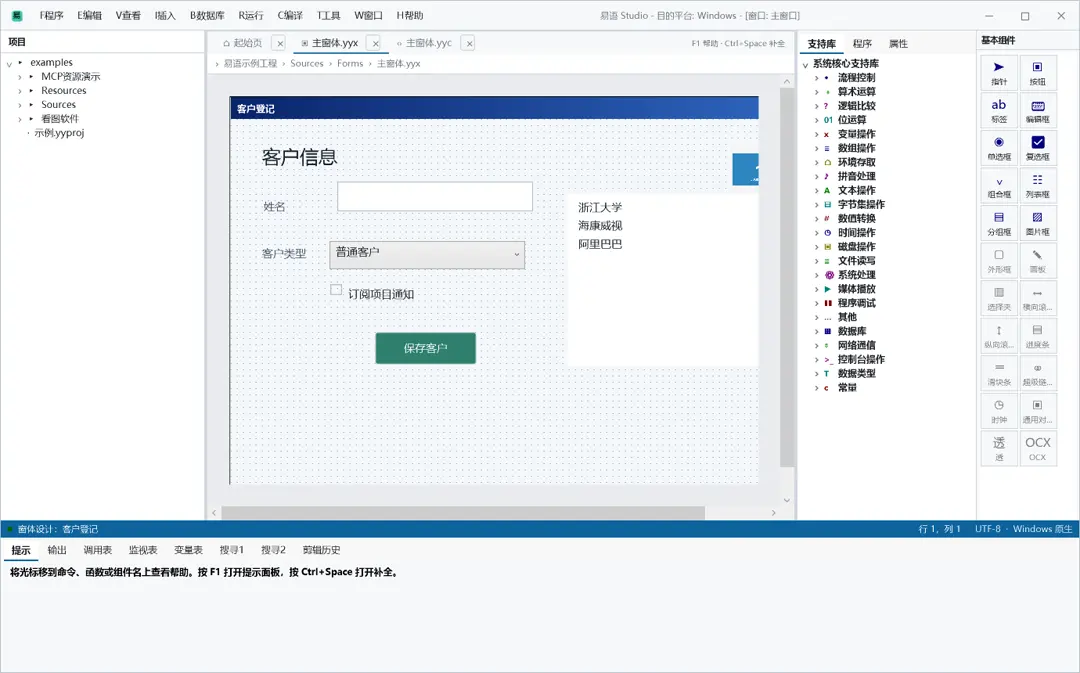
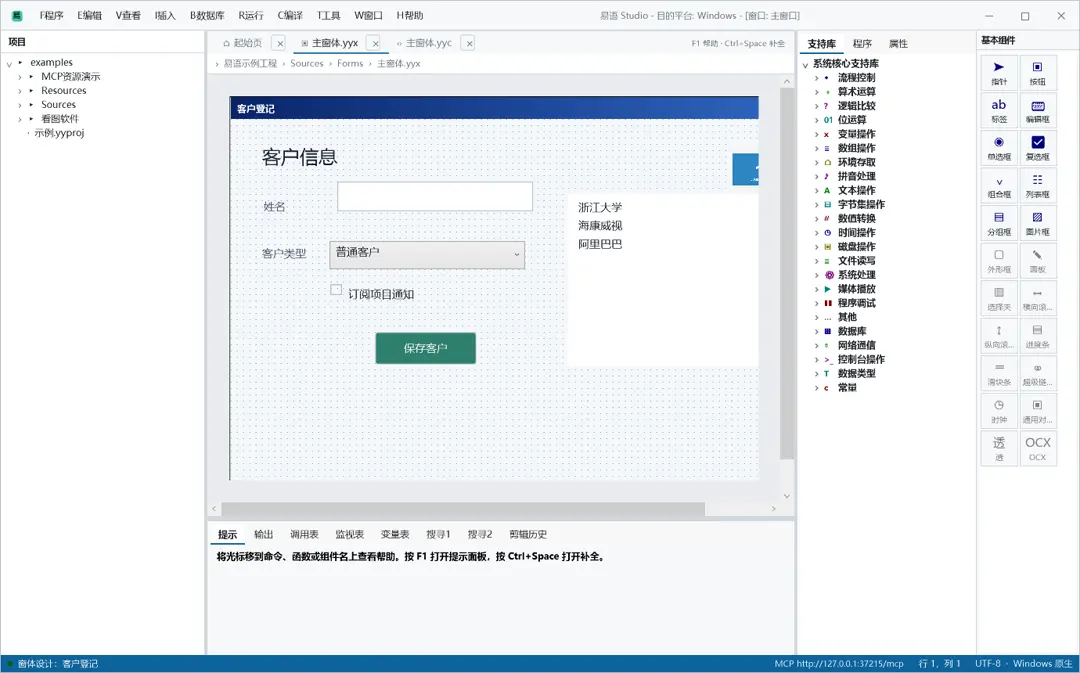
feat: add IDE tool window layout and MCP endpoint status

Changed region(s): [[0.0, 0.7489, 1.0, 0.8737], [0.0, 0.9673, 1.0, 1.0]]

diff --git a/src/Yy.Studio/MainWindow.xaml b/src/Yy.Studio/MainWindow.xaml
@@ -135,7 +135,7 @@
             BorderBrush="#B8C0C8"
             BorderThickness="1"
             SnapsToDevicePixels="True">
-    <DockPanel LastChildFill="True">
+    <DockPanel x:Name="MainLayout" LastChildFill="True">
         <!-- ================= 自定义顶栏：窗口标题、菜单和窗口按钮共用一条操作栏 ================= -->
         <Border x:Name="WindowTitleBar"
                 DockPanel.Dock="Top"
@@ -395,7 +395,8 @@
         </Border>
 
         <!-- ================= 提示、输入出组合夹(全宽,夹标签在顶) ================= -->
-        <Border DockPanel.Dock="Bottom"
+        <Border x:Name="BottomToolWindowPanel"
+                DockPanel.Dock="Bottom"
                 Height="172"
                 MinHeight="96"
                 Background="{StaticResource PanelBrush}">
@@ -585,6 +586,7 @@
                     <ColumnDefinition Width="*" />
                     <ColumnDefinition Width="Auto" />
                     <ColumnDefinition Width="Auto" />
+                    <ColumnDefinition Width="Auto" />
                 </Grid.ColumnDefinitions>
                 <StackPanel Orientation="Horizontal" VerticalAlignment="Center">
                     <Ellipse x:Name="StatusDot" Width="7" Height="7" Fill="#4ADE80" />
@@ -592,17 +594,48 @@
                                Margin="7,0,0,0" FontSize="11"
                                Foreground="White" />
                 </StackPanel>
-                <TextBlock x:Name="CaretText" Grid.Column="1" Text="行 1，列 1"
+                <Button x:Name="McpEndpointButton"
+                        Grid.Column="1"
+                        Content="MCP 未启用"
+                        Tag=""
+                        Margin="0,0,12,0"
+                        Padding="7,1"
+                        Background="Transparent"
+                        BorderThickness="0"
+                        Foreground="#DDEBFA"
+                        FontSize="10.5"
+                        Cursor="Hand"
+                        ToolTip="点击复制 MCP HTTP 地址"
+                        Click="OnCopyMcpEndpointClick">
+                    <Button.Template>
+                        <ControlTemplate TargetType="Button">
+                            <Border x:Name="McpChrome"
+                                    Background="{TemplateBinding Background}"
+                                    Padding="{TemplateBinding Padding}"
+                                    CornerRadius="2">
+                                <ContentPresenter VerticalAlignment="Center" />
+                            </Border>
+                            <ControlTemplate.Triggers>
+                                <Trigger Property="IsMouseOver" Value="True">
+                                    <Setter TargetName="McpChrome"
+                                            Property="Background"
+                                            Value="#227AA8" />
+                                </Trigger>
+                            </ControlTemplate.Triggers>
+                        </ControlTemplate>
+                    </Button.Template>
+                </Button>
+                <TextBlock x:Name="CaretText" Grid.Column="2" Text="行 1，列 1"
                            FontSize="11" Foreground="White"
                            Margin="0,0,18,0" VerticalAlignment="Center" />
-                <TextBlock Grid.Column="2" Text="UTF-8  ·  Windows 原生"
+                <TextBlock Grid.Column="3" Text="UTF-8  ·  Windows 原生"
                            FontSize="11" Foreground="#DDEBFA"
                            VerticalAlignment="Center" />
             </Grid>
         </Border>
 
         <!-- ================= 主体:左工作与状态组合夹 | 设计中心 | 右窗口组件箱 ================= -->
-        <Grid>
+        <Grid Background="{StaticResource WorkspaceBrush}" ClipToBounds="True">
             <Grid.ColumnDefinitions>
                 <ColumnDefinition x:Name="ExplorerColumn" Width="260" MinWidth="180" />
                 <ColumnDefinition Width="4" />
@@ -610,9 +643,15 @@
                 <ColumnDefinition Width="4" />
                 <ColumnDefinition x:Name="InspectorColumn" Width="360" MinWidth="220" />
             </Grid.ColumnDefinitions>
+            <Grid.RowDefinitions>
+                <RowDefinition Height="*" />
+                <RowDefinition Height="5" />
+                <RowDefinition x:Name="BottomToolWindowRow" Height="172" MinHeight="96" />
+            </Grid.RowDefinitions>
 
             <!-- 左:项目目录 -->
             <Border Grid.Column="0" x:Name="ProjectExplorerPanel"
+                    Grid.RowSpan="3"
                     Background="{StaticResource PanelBrush}">
                 <DockPanel>
                     <Border DockPanel.Dock="Top"
@@ -632,6 +671,7 @@
 
             <!-- 右:支持库、程序数据、属性 -->
             <Border Grid.Column="4" x:Name="RightToolsPanel"
+                    Grid.RowSpan="3"
                     Margin="0,0,132,0"
                     Background="{StaticResource PanelBrush}">
                 <TabControl x:Name="WorkTabs" TabStripPlacement="Top">
@@ -756,6 +796,7 @@
 
             <GridSplitter x:Name="ExplorerSplitter"
                           Grid.Column="1"
+                          Grid.RowSpan="3"
                           Width="4"
                           HorizontalAlignment="Stretch"
                           Background="{StaticResource BorderBrush}"
@@ -764,7 +805,10 @@
                           ShowsPreview="True" />
 
             <!-- 中:现代 IDE 文档区(顶部标签 + 路径导航 + 编辑器) -->
-            <Grid x:Name="DocumentArea" Grid.Column="2" Background="{StaticResource WindowBrush}">
+            <Grid x:Name="DocumentArea"
+                  Grid.Column="2"
+                  Grid.Row="0"
+                  Background="{StaticResource WindowBrush}">
                 <Grid.RowDefinitions>
                     <RowDefinition Height="30" />
                     <RowDefinition Height="Auto" />
@@ -1119,8 +1163,28 @@
                 </Grid>
             </Grid>
 
+            <GridSplitter x:Name="BottomToolWindowSplitter"
+                          Grid.Row="1"
+                          Grid.Column="2"
+                          Height="5"
+                          HorizontalAlignment="Stretch"
+                          VerticalAlignment="Stretch"
+                          Background="{StaticResource BorderBrush}"
+                          ResizeBehavior="PreviousAndNext"
+                          ResizeDirection="Rows"
+                          ShowsPreview="True" />
+
+            <Border Grid.Row="2"
+                    Grid.Column="2"
+                    Background="{StaticResource PanelBrush}"
+                    BorderBrush="{StaticResource BorderBrush}"
+                    BorderThickness="0,1,0,0">
+                <ContentControl x:Name="BottomToolWindowHost" />
+            </Border>
+
             <GridSplitter x:Name="InspectorSplitter"
                           Grid.Column="3"
+                          Grid.RowSpan="3"
                           Width="4"
                           HorizontalAlignment="Stretch"
                           Background="{StaticResource BorderBrush}"
@@ -1130,6 +1194,7 @@
 
             <!-- 右:窗口组件箱 -->
             <Border Grid.Column="4" x:Name="InspectorPanel"
+                    Grid.RowSpan="3"
                     Width="132"
                     HorizontalAlignment="Right"
                     Background="{StaticResource PanelBrush}"

diff --git a/src/Yy.Studio/Mcp/StudioMcpHost.cs b/src/Yy.Studio/Mcp/StudioMcpHost.cs
@@ -1,4 +1,5 @@
 using System.IO;
+using System.Runtime.InteropServices;
 using System.Text.Json.Nodes;
 using System.Windows;
 using System.Windows.Media;
@@ -33,6 +34,7 @@ public partial class MainWindow
 
         if (!Configuration.Mcp.Enabled)
         {
+            SetMcpEndpointStatus(null);
             AppendOutput("MCP 服务已在 Studio 配置中停用。");
             return;
         }
@@ -45,6 +47,7 @@ public partial class MainWindow
             Configuration.Mcp.PortAttempts);
         if (_mcpServer.Port == 0)
         {
+            SetMcpEndpointStatus(null);
             AppendOutput($"MCP 无法在端口 {port} 启动，请修改 Studio 配置文件。");
             _mcpServer = null;
             return;
@@ -57,7 +60,45 @@ public partial class MainWindow
             System.Threading.Tasks.Task.Run(server.RunStdio);
         }
 
+        SetMcpEndpointStatus(_mcpServer.Port);
         StudioTrace.Write($"MCP server started on port {_mcpServer.Port}");
+    }
+
+    private void SetMcpEndpointStatus(int? port)
+    {
+        if (port is null)
+        {
+            McpEndpointButton.Content = "MCP 未启用";
+            McpEndpointButton.Tag = string.Empty;
+            McpEndpointButton.ToolTip = "MCP 服务未启用";
+            return;
+        }
+
+        var endpoint = $"http://127.0.0.1:{port}/mcp";
+        McpEndpointButton.Content = $"MCP {endpoint}";
+        McpEndpointButton.Tag = endpoint;
+        McpEndpointButton.ToolTip = $"点击复制：{endpoint}";
+    }
+
+    private void OnCopyMcpEndpointClick(object sender, RoutedEventArgs e)
+    {
+        if (McpEndpointButton.Tag is not string endpoint ||
+            string.IsNullOrWhiteSpace(endpoint))
+        {
+            SetStatus("MCP 服务未启用。", WarningBrush);
+            return;
+        }
+
+        try
+        {
+            Clipboard.SetText(endpoint);
+            SetStatus($"已复制 MCP 地址：{endpoint}", ReadyBrush);
+        }
+        catch (Exception exception) when (
+            exception is ExternalException or ArgumentException)
+        {
+            SetStatus($"无法复制 MCP 地址：{exception.Message}", ErrorBrush);
+        }
     }
 
     private static int? ReadMcpPortOverride(string[] args)

diff --git a/src/Yy.Studio/MainWindow.IdeLayout.cs b/src/Yy.Studio/MainWindow.IdeLayout.cs
@@ -1,0 +1,26 @@
+using System.Windows;
+using System.Windows.Controls;
+
+namespace Yy.Studio;
+
+/// <summary>把底部输出工具窗放入中央工作区，使左右工具窗贯穿整个 IDE 高度。</summary>
+public partial class MainWindow
+{
+    private void ConfigureIdeWorkspaceLayout()
+    {
+        if (ReferenceEquals(BottomToolWindowHost.Content, BottomToolWindowPanel))
+        {
+            return;
+        }
+
+        if (BottomToolWindowPanel.Parent is DockPanel host)
+        {
+            host.Children.Remove(BottomToolWindowPanel);
+        }
+
+        BottomToolWindowPanel.ClearValue(FrameworkElement.HeightProperty);
+        BottomToolWindowPanel.ClearValue(DockPanel.DockProperty);
+        BottomToolWindowPanel.VerticalAlignment = VerticalAlignment.Stretch;
+        BottomToolWindowHost.Content = BottomToolWindowPanel;
+    }
+}

diff --git a/src/Yy.Studio/MainWindow.xaml.cs b/src/Yy.Studio/MainWindow.xaml.cs
@@ -164,6 +164,7 @@ public partial class MainWindow : Window
         Configuration = configuration;
         StudioTrace.Write("MainWindow ctor begin");
         InitializeComponent();
+        ConfigureIdeWorkspaceLayout();
         StudioTrace.Write("InitializeComponent complete");
 
         _settings = StudioSettings.Load();

diff --git a/docs/roadmap.md b/docs/roadmap.md
@@ -25,7 +25,7 @@
 | BASE-10 | Windows 单文件发布 | 已实现 | 自包含 `YyStudio.exe` 与独立命令行 `yy.exe` |
 | BASE-11 | 真实项目结构 | 已实现 | `.yyproj` 管理入口、源码、窗体、自动关系、资源目录和资源标识 |
 | BASE-12 | 可视化窗体设计 | 已实现 | 原生设计器、拖放、缩放、属性、XML、预览和事件执行 |
-| BASE-13 | 现代 IDE 工作区 | 已实现 | 自定义单条顶栏、左侧项目目录、右侧工具窗口、窗体设计器组件箱、连续代码窗口、对象/过程导航、底部提示和状态区 |
+| BASE-13 | 现代 IDE 工作区 | 已实现 | 自定义单条顶栏、贯穿高度的左右工具窗、中央编辑区下方工具窗、窗体设计器组件箱、连续代码窗口、对象/过程导航和状态区 |
 | BASE-14 | MCP 工程控制 | 已实现 | 19 个工具覆盖工程创建、资源导入、控件与事件、代码、预览、交互和截图 |
 | BASE-15 | IDE 与 CLI 分离 | 已实现 | `YyStudio -> Yy.Compiler`；`yy -> Yy.Compiler`，CLI 不引用 WPF |
 | BASE-16 | Studio 配置与快捷键 | 已实现 | `YyStudio.json`、命令行配置覆盖、JetBrains 风格设置窗口和快捷键冲突校验 |

diff --git a/docs/feature-analysis.md b/docs/feature-analysis.md
@@ -14,7 +14,7 @@
 
 | 方面 | 当前实现 |
 |---|---|
-| IDE 外壳 | WPF 原生窗口、自定义单条顶栏、左侧项目目录、右侧工具窗口、文档标签、面包屑和状态栏 |
+| IDE 外壳 | WPF 原生窗口、自定义单条顶栏、贯穿高度的左右工具窗、中央编辑区下方输出工具窗、文档标签、面包屑和状态栏 |
 | 工具分离 | `YyStudio.exe` 提供 IDE，`yy.exe` 提供无 WPF 依赖的命令行构建、检查和运行 |
 | 配置 | `YyStudio.json` 统一管理 MCP、编辑器、窗体、编译、支持库和快捷键配置 |
 | 工程模型 | `.yyproj` 清单、项目名/包名、`Sources/` 与 `Resources/`、源码/窗体/引用/资源和启动窗体 |
@@ -28,6 +28,7 @@
 | 编译器 | `.yyproj → AST → C# → 自包含 Windows 单文件 EXE` |
 | 资源编译 | 窗体图标和图片框资源按标识解析并嵌入编译产物 |
 | MCP | 19 个工具，可创建工程、导入资源、设计界面、写事件、预览、触发控件和截图 |
+| 状态栏 | 运行状态、实际 MCP HTTP 地址（可点击复制）、光标位置和编码 |
 
 ## 编辑器体验
 

diff --git a/README.md b/README.md
@@ -11,9 +11,10 @@
 - 菜单、当前文档标题和窗口按钮共用无系统标题栏的顶部操作栏，窗口仍支持拖动、缩放、双击最大化和贴边布局。
 - 左侧显示真实项目目录，可直接展开文件夹、打开窗体、代码和项目文件。
 - 右侧提供支持库、程序数据和属性工具窗口。
+- 左侧和右侧工具窗贯穿工作区高度，底部输出工具窗位于中央编辑区下方，形成 IDEA 式包围布局。
 - 组件箱只在窗体设计器中显示，不会占用代码编辑空间。
 - 文档标签位于编辑器顶部，并显示项目路径和当前过程面包屑。
-- 状态栏显示运行状态、光标位置和文件编码。
+- 状态栏显示运行状态、实际 MCP 地址、光标位置和文件编码；点击 MCP 地址可复制。
 - 代码编辑支持自动补全、参数签名提示、F1 上下文帮助、括号配对、块缩进、折叠和撤销。
 
 ### 易语言式代码窗口

diff --git a/AGENTS.md b/AGENTS.md
@@ -70,7 +70,8 @@ Resources/
 - 主窗口使用自定义顶栏，应用图标、主菜单、文档标题和窗口按钮位于同一条操作栏，不再显示独立系统标题栏。
 - 顶栏必须保持统一高度、垂直居中和像素对齐；窗口按钮使用固定尺寸矢量图形。
 - 保留拖动、缩放、双击最大化、最小化、还原和 Windows 贴边布局。
-- 主工作区左侧为项目目录，右侧为工具窗口；组件箱只在窗体设计器中显示。
+- 主工作区采用 IDEA 式停靠布局：左侧项目、右侧工具窗和中央编辑区由细边框分隔，底部工具窗只在中央编辑区下方展开；组件箱只在窗体设计器中显示。
+- 状态栏必须显示实际 MCP HTTP 地址；地址随自动端口选择变化，并支持点击复制。
 
 ## IDE 与命令行工具分离
 

diff --git a/docs/mcp.md b/docs/mcp.md
@@ -7,7 +7,7 @@
 ## 连接方式
 
 - **HTTP JSON-RPC**：端口由 `YyStudio.json` 的 `MCP` 配置决定，默认 `127.0.0.1:37213`；可启用自动顺延。
-  实际端口写入 `%TEMP%\yystudio-mcp.port`。项目根 `.mcp.json` 已注册该端点。
+  实际地址显示在 Studio 底部状态栏，可点击复制，同时写入 `%TEMP%\yystudio-mcp.port`。项目根 `.mcp.json` 已注册默认端点。
 - **stdio**:`YyStudio.exe --mcp-stdio` 以子进程方式拉起 IDE(GUI 一同显示),JSON-RPC 逐行收发。
 
 修改首选端口或自动查找策略后需要重启 Studio。也可以使用
